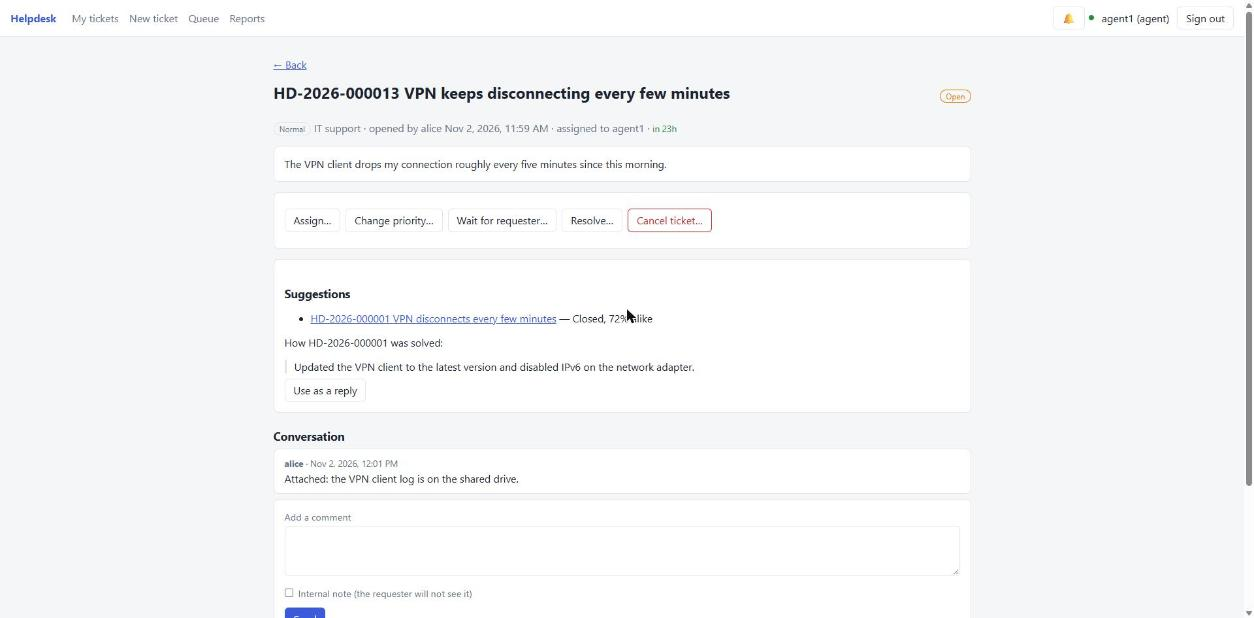
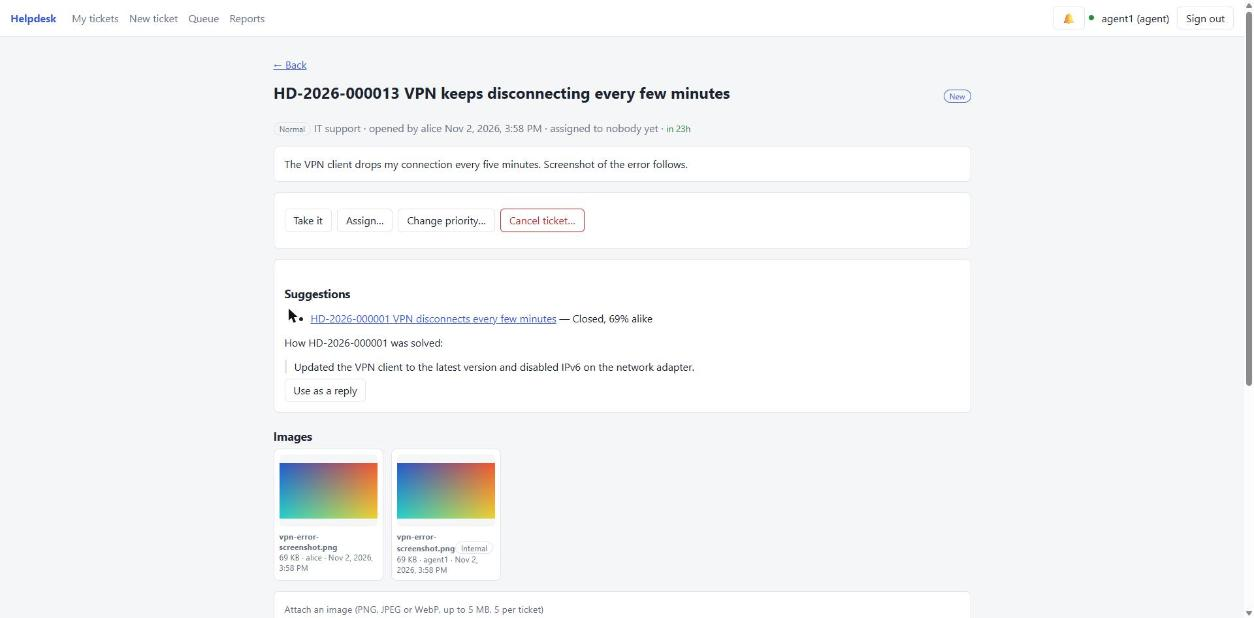
docs: screenshot of the ticket page with images

diff --git a/README.md b/README.md
@@ -8,7 +8,7 @@
 
 A support desk built on the [ABP Framework](https://abp.io): people raise tickets, agents pick them up from a queue and work them to a close, and managers can follow everything in a Google Sheet. It is a REST API with a PostgreSQL database, a React web UI with live notifications, and a Flutter app for requesters.
 
-![An agent's view of a ticket: the actions the server allows, and suggestions from similar closed tickets](docs/agent-ticket.jpg)
+![An agent's view of a ticket: the actions the server allows, suggestions from similar closed tickets, and the attached images (one internal)](docs/agent-ticket.jpg)
 
 The focus of the project is getting the hard parts right and proving it: the ticket life cycle, who may do what, the privacy of internal notes, SLA targets in business hours, safe ticket numbering under load, and an export to Google Sheets that cannot leak or corrupt data.
 
